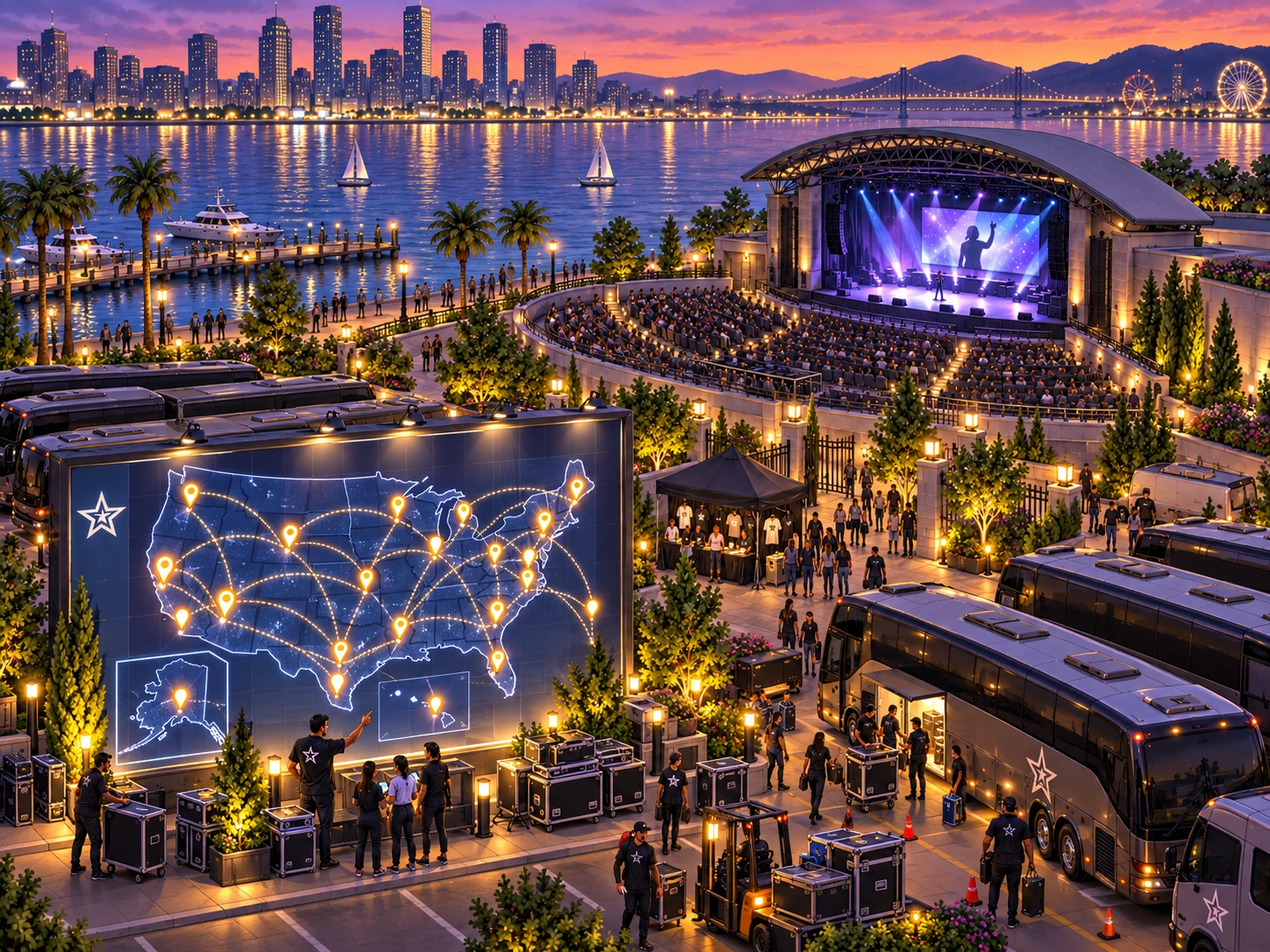
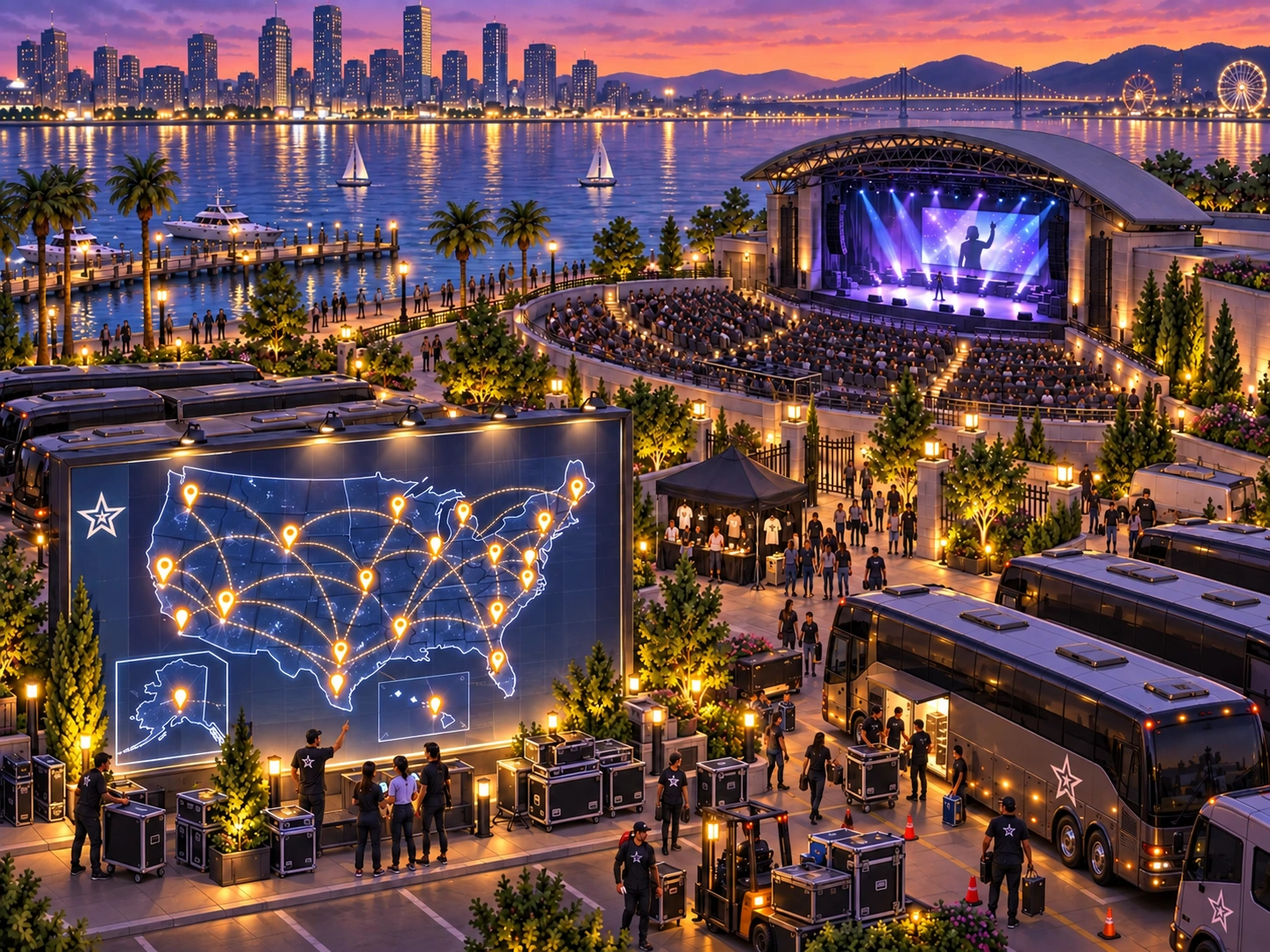
Updated Megastar Mania

diff --git a/audit_tools/econ_rpg/game/ui.js b/audit_tools/econ_rpg/game/ui.js
@@ -1,4 +1,4 @@
-import { nodeContent, availableChoices } from './engine.js';
+import { nodeContent, availableChoices, matches } from './engine.js';
 import { renderScene } from './scenes.js';
 export function el(tag, text, className) {
   const element = document.createElement(tag);
@@ -27,11 +27,41 @@ export function contentBlocks(blocks, parent) {
     }
   }
 }
+export const indicatorValue = (spec, value) => spec.display ? spec.display.values[value] : `${value} / ${spec.max}`;
+export const marketReading = (s, run) => run?.history.length ? s.marketIndicator?.variants.find(v => matches(v.when, run)) : null;
+export function announceChanges(s, run) {
+  const entry = run.history.at(-1);
+  const changes = Object.keys(s.state).filter(k => entry.before[k] !== entry.after[k]).map(k => {
+    const spec = s.state[k], direction = entry.after[k] > entry.before[k] ? 'increased' : 'decreased';
+    return spec.display ? `${spec.label} ${direction}: ${indicatorValue(spec, entry.after[k])}` : `${spec.label} ${direction} to ${entry.after[k]} of ${spec.max}`;
+  }).join('. ') || 'Indicators held steady.';
+  const market = marketReading(s, run);
+  return market ? `${changes}${changes.endsWith('.') ? ' ' : '. '}${s.marketIndicator.label}: ${market.label} at the posted price. ${market.text}` : changes;
+}
+function renderMarket(s, run) {
+  const config = s.marketIndicator, reading = marketReading(s, run);
+  const group = el('section', undefined, 'ticket-market'); group.dataset.market = reading?.id || 'pending';
+  group.append(el('h3', config.label), el('p', 'At the posted price', 'market-context'));
+  const gauge = el('div', undefined, 'market-gauge');
+  gauge.setAttribute('role', reading ? 'meter' : 'img');
+  gauge.setAttribute('aria-label', reading ? config.label : `${config.label}: choose an opening ticket price first.`);
+  if (reading) {
+    gauge.setAttribute('aria-valuemin', '-1'); gauge.setAttribute('aria-valuemax', '1'); gauge.setAttribute('aria-valuenow', String(reading.position));
+    gauge.setAttribute('aria-valuetext', `${reading.label} at the posted price. ${reading.text}`);
+  }
+  const track = el('div', undefined, 'market-track'); track.setAttribute('aria-hidden', 'true');
+  for (const id of ['shortage','balanced','surplus']) track.append(el('span', '', `market-zone ${id}`));
+  const pointer = el('span', '▼', 'market-pointer'); pointer.hidden = !reading; track.append(pointer);
+  const labels = el('div', undefined, 'market-labels'); labels.setAttribute('aria-hidden', 'true');
+  for (const label of ['Shortage','Balanced','Surplus']) labels.append(el('span', label));
+  gauge.append(track, labels); group.append(gauge, el('p', reading?.text || 'Choose an opening ticket price to see the market result.', 'market-result'));
+  return group;
+}
 export function changes(s, before, after) {
   const ul = el('ul', undefined, 'changes');
   for (const [id, spec] of Object.entries(s.state)) {
     const delta = after[id] - before[id];
-    if (delta) ul.append(el('li', `${spec.label}: ${delta > 0 ? '↑ increased' : '↓ decreased'} ${Math.abs(delta)} ${Math.abs(delta) === 1 ? 'step' : 'steps'}`));
+    if (delta) ul.append(el('li', spec.display ? `${spec.label}: ${delta > 0 ? '↑ ' + spec.display.up : '↓ ' + spec.display.down}` : `${spec.label}: ${delta > 0 ? '↑ increased' : '↓ decreased'} ${Math.abs(delta)} ${Math.abs(delta) === 1 ? 'step' : 'steps'}`));
   }
   if (!ul.children.length) ul.append(el('li', 'Indicators held steady in this step.'));
   return ul;
@@ -43,6 +73,7 @@ function heading(view, title, eyebrow) {
 export function renderState(s, run) {
   const panel = document.querySelector('#state-panel'); panel.replaceChildren();
   const title = el('h2', s.stateTitle || 'Conditions'); title.id = 'state-title'; panel.append(title);
+  if (s.marketIndicator) panel.append(renderMarket(s, run));
   const initial = Object.fromEntries(Object.entries(s.state).map(([id, spec]) => [id, spec.initial]));
   const state = run?.state || initial;
   const recent = run?.history.at(-1);
@@ -50,6 +81,13 @@ export function renderState(s, run) {
   for (const [id, spec] of Object.entries(s.state)) {
     const group = el('div', undefined, 'state-item'); group.append(el('dt', spec.label));
     const dd = el('dd');
+    if (spec.display) {
+      group.classList.add('qualitative');
+      dd.append(el('span', indicatorValue(spec, state[id]), 'state-value'));
+      const delta = recent ? recent.after[id] - recent.before[id] : 0;
+      if (delta) dd.append(el('span', delta > 0 ? `↑ ${spec.display.up}` : `↓ ${spec.display.down}`, 'state-change'));
+      group.append(dd); list.append(group); continue;
+    }
     const dots = el('span', undefined, 'steps'); dots.setAttribute('aria-hidden', 'true');
     for (let i = spec.min; i < spec.max; i++) dots.append(el('i', '', i < state[id] ? 'filled' : ''));
     const value = el('span', `${state[id]} / ${spec.max}`, 'state-value');
@@ -65,9 +103,13 @@ export function renderState(s, run) {
     group.append(dd); list.append(group);
   }
   panel.append(list);
+  if (s.marketIndicator) panel.append(el('p', 'Fan interest is not a ticket count.', 'indicator-note'));
   const details = el('details'), definitions = el('dl', undefined, 'indicator-definitions');
   for (const spec of Object.values(s.state)) {
     const group = el('div'); group.append(el('dt', spec.label), el('dd', spec.short)); definitions.append(group);
+  }
+  if (s.marketIndicator) {
+    const group = el('div'); group.append(el('dt', s.marketIndicator.label), el('dd', s.marketIndicator.short)); definitions.append(group);
   }
   details.append(el('summary', 'What do these indicators mean?'), definitions, el('p', 'Indicators show simplified scenario conditions, not real-world forecasts.')); panel.append(details);
 }

diff --git a/audit_tools/econ_rpg/game/scenarios/megastar-mania.js b/audit_tools/econ_rpg/game/scenarios/megastar-mania.js
@@ -28,9 +28,14 @@ export default {
   consequenceTitle: 'Tour consequences', endingEyebrow: 'Your outcome · After the tour', duration: 'About 10–15 minutes', decisions: 6, sceneSet,
   introduction: [p('Jules Arlen is a fictional indie-pop singer with a modest following and a waterfront show to book. You manage the tour: set ticket prices, decide how far to expand, and respond when illness or public attention changes the market.'), p('Each stage follows the next booking window. Watch who can get tickets, how many seats remain available and what supports the artist’s future. The venue is a representative view of the tour; no single indicator is a score to maximize.')],
   metadata: { concept: 'Supply and demand in concert ticket markets', learningObjective: 'Distinguish price-driven changes in quantity demanded from shifts in demand and available ticket supply.', mechanism: 'Posted prices, capacity, shortages, surplus and secondary markets', misconception: 'A sellout proves the price was ideal, or more dates mean higher demand.' },
+  marketIndicator: { label: 'Ticket Market', short: 'Compares ticket requests at the posted price with available seats. The pointer shows the result, not a number of tickets.', variants: [
+    { id: 'shortage', label: 'Shortage', position: -1, text: 'More ticket requests than available seats.', when: marketIs('shortage') },
+    { id: 'balanced', label: 'Balanced', position: 0, text: 'Ticket requests match available seats.', when: marketIs('balanced') },
+    { id: 'surplus', label: 'Surplus', position: 1, text: 'More available seats than ticket requests.', when: marketIs('surplus') }
+  ] },
   state: {
-    demand: { label: 'Ticket Demand', short: 'How strongly consumers want tickets, distinct from purchases at a particular price', min: 0, max: 8, initial: 4 },
-    supply: { label: 'Ticket Supply', short: 'Seats and performances available in the current tour window', min: 0, max: 8, initial: 4 },
+    demand: { label: 'Fan Interest', short: 'Underlying enthusiasm for Jules, not the number of tickets wanted at a particular price.', min: 0, max: 8, initial: 4, display: { values: ['Very low','Very low','Low','Low','Moderate','Moderate','Strong','Strong','Very strong'], up: 'Stronger interest', down: 'Weaker interest' } },
+    supply: { label: 'Ticket Supply', short: 'Available seats and performances. Compare ticket requests with capacity using the Ticket Market gauge, not the Fan Interest label.', min: 0, max: 8, initial: 4, display: { values: ['None','Very limited','Very limited','Limited','Moderate','Broad','Broad','Extensive','Extensive'], up: 'More capacity', down: 'Less capacity' } },
     revenue: { label: 'Tour Revenue', short: 'Financial strength from ticket receipts after refunds, not a profit estimate', min: 0, max: 8, initial: 4 },
     goodwill: { label: 'Fan Goodwill', short: 'How fans view the artist and touring experience', min: 0, max: 8, initial: 5 },
     momentum: { label: 'Career Momentum', short: 'Broader visibility, audience reach and prospects for future work', min: 0, max: 8, initial: 3 }

diff --git a/audit_tools/econ_rpg/game/rpg.css b/audit_tools/econ_rpg/game/rpg.css
@@ -4,6 +4,20 @@
 @media(prefers-reduced-motion:reduce){*{scroll-behavior:auto!important;animation:none!important;transition:none!important}}
 
 /* Approved local WebPs: show the complete artwork at its intrinsic aspect ratio. */
+/* Opt-in qualitative indicators and derived market display; other scenarios retain their panel. */
+.ticket-market{margin:16px 0 12px;padding:14px 12px;background:#071f3c;border:1px solid var(--line);border-radius:10px}
+.ticket-market h3{font-size:.9rem;margin:0}.market-context{font-size:.73rem;color:var(--muted);margin:1px 0 18px}
+.market-gauge{position:relative}.market-track{position:relative;display:grid;grid-template-columns:1fr 1fr 1fr;gap:3px;height:9px;margin:0 4px}
+.market-zone{background:#54657a;border-radius:3px}.market-zone.balanced{background:#4d747a}
+.ticket-market[data-market="shortage"] .shortage,.ticket-market[data-market="surplus"] .surplus{background:var(--gold)}
+.ticket-market[data-market="balanced"] .balanced{background:var(--teal)}
+.market-pointer{position:absolute;top:-18px;left:50%;transform:translateX(-50%);font-size:15px;line-height:18px;color:var(--ink)}
+.ticket-market[data-market="shortage"] .market-pointer{left:16.667%}.ticket-market[data-market="surplus"] .market-pointer{left:83.333%}
+.market-labels{display:grid;grid-template-columns:1fr 1fr 1fr;gap:3px;margin-top:6px;font-size:.65rem;text-align:center;color:var(--muted)}
+.market-result{font-size:.76rem;line-height:1.5;margin:10px 0 0;color:var(--ink)}
+.state-item.qualitative dd{display:flex;flex-wrap:wrap;justify-content:space-between;gap:4px 10px}
+.state-item.qualitative .state-value{font-size:.9rem;font-weight:600;color:var(--ink);text-align:left}
+.state-item.qualitative .state-change{font-size:.7rem;white-space:normal}.indicator-note{font-size:.75rem;color:var(--muted);margin:12px 0 0}
 .states details[open] summary{margin-bottom:10px}
 .neighborhood-scene{margin:0 -10px 24px;overflow:hidden;border:1px solid #546e79;border-radius:10px;background:#eef4f8}
 .neighborhood-scene img{display:block;width:100%;height:auto;object-fit:contain}

diff --git a/audit_tools/econ_rpg/game/rpg.js b/audit_tools/econ_rpg/game/rpg.js
@@ -1,7 +1,7 @@
 import { scenarioFor } from './scenarios/registry.js';
 import { createRun, decide, advance, transitionEvent, validateScenario } from './engine.js';
 import { loadRun, saveRun, clearRun } from './storage.js';
-import { render } from './ui.js';
+import { render, announceChanges } from './ui.js';
 const scenario = scenarioFor(window.location.search);
 validateScenario(scenario);
 document.title = `${scenario.title} · Mastery Quests`;
@@ -30,8 +30,7 @@ const actions = {
   resume() { run = saved; paint(); event(run.phase === 'decision' ? 'decision_presented' : run.phase === 'consequence' ? 'consequence_viewed' : 'scenario_complete'); },
   choose(id) {
     run = decide(scenario, run, id); persist(); event('decision_selected', id); paint(); event('consequence_viewed', id);
-    const entry = run.history.at(-1);
-    document.querySelector('#announcement').textContent = Object.keys(scenario.state).filter(k => entry.before[k] !== entry.after[k]).map(k => `${scenario.state[k].label} ${entry.after[k] > entry.before[k] ? 'increased' : 'decreased'} to ${entry.after[k]} of ${scenario.state[k].max}`).join('. ') || 'Indicators held steady.';
+    document.querySelector('#announcement').textContent = announceChanges(scenario, run);
   },
   advance() { run = advance(scenario, run); persist(); paint(); event(run.phase === 'ending' ? 'scenario_complete' : 'decision_presented'); },
   replay() { reset(); }

diff --git a/audit_tools/econ_rpg/MEGASTAR-MANIA-REPORT.md b/audit_tools/econ_rpg/MEGASTAR-MANIA-REPORT.md
@@ -2,11 +2,27 @@
 
 Completed September 20, 2026; targeted gameplay refinements reviewed against commit `cc9dd5791c79655157cc0ea3f47719601244578b` on September 21, 2026. **Ready for instructor QA.** Development only; nothing deployed, published or pushed.
 
+## September 21 indicator presentation update
+
[1 lines of base64/hex data omitted]
+
+**Labels and display:** “Ticket Demand” is now **Fan Interest**. Fan Interest and Ticket Supply use qualitative labels instead of numeric totals or matching eight-step bars. For example, interest can be Moderate or Strong and capacity can be Limited or Broad. Tour Revenue, Fan Goodwill and Career Momentum retain their existing numerical display. The underlying state IDs, 0–8 ranges and market mechanics are unchanged.
+
+**Ticket Market:** a separate three-position gauge sits at the top of the conditions panel. Shortage is on the left, balance in the center and surplus on the right. A pointer, highlighted segment and short description identify the derived result at the posted price. The gauge communicates a category, not the size of a ticket gap. Before the first price decision it has no pointer and asks the player to choose a price. Selection uses the existing `marketIs` conditions, verified against `ticketMarket`; it never compares raw Fan Interest with Ticket Supply.
+
+**Help and consequences:** the collapsed help now separately explains underlying enthusiasm, available capacity and ticket requests at the posted price. A short visible note says that fan interest is not a ticket count. For those two states, panel deltas and consequence/debrief change badges say stronger/weaker interest or more/less capacity instead of numeric steps. Screen-reader announcements use the qualitative labels and include the derived market condition. The gauge has an accessible meter role and descriptive value text, and does not rely on color alone. No decision or economic-consequence prose was rewritten.
+
+**Shared UI scope:** `game/ui.js` adds opt-in qualitative displays and market-gauge rendering; `game/rpg.css` styles only the new classes; `game/rpg.js` uses the shared announcement formatter. Megastar alone supplies the optional display metadata. The other three RPGs retain their labels, numerical panels, announcements and complete path histories. Engine, storage, scene rules and price-sensitive market calculations are unchanged. Historical test assertions that required byte-identical shared UI files now protect engine/storage/scenario data instead, backed by all three earlier browser suites.
+
[1 lines of base64/hex data omitted]
+
+**Review:** compare premium → aggressive → dates, moderate → keep → dates, and introductory → keep → dates. All three reach internal interest 7 and capacity 7, but the gauge shows surplus, balance and shortage respectively because their posted prices differ. Both visible state labels remain the same across this comparison, demonstrating why they cannot substitute for the market result. See the updated [QA guide](MEGASTAR-MANIA-QA-PATHS.md) for the full routes and indicator checks.
+
 Play at <http://127.0.0.1:4179/?scenario=megastar-mania>. The title is exactly **Megastar Mania**, without a subtitle. Start with routes 1–8 in [MEGASTAR-MANIA-QA-PATHS.md](MEGASTAR-MANIA-QA-PATHS.md); together they show all seven scenes and all seven endings. Seventeen routes cover every reachable conditional consequence and choice, including added dates under shortage, balance and surplus.
 
-## September 21 refinement scope
+## Earlier September 21 gameplay refinement scope
 
-Only two gameplay rules changed from the reviewed commit: added-date consequence art and classification of strong-demand limited-tour endings. The map's alt description now identifies the action being illustrated rather than asserting strong ticket sales. All decision prose, choices, numerical effects, routing, market derivation, existing ending prose, debrief, artwork and shared runtime remain unchanged. Supporting tests and documentation reflect those two changes.
+In the earlier refinement against `cc9dd579`, only two gameplay rules changed: added-date consequence art and classification of strong-demand limited-tour endings. The map's alt description identified the action being illustrated rather than asserting strong ticket sales. At that stage, all decision prose, choices, numerical effects, routing, market derivation, existing ending prose, debrief, artwork and shared runtime remained unchanged. The later presentation-only update is recorded above.
 
 `expansion.dates` now selects `expanded-tour` on its immediate consequence in all three derived market states. Advancing returns to the current market image. `expansion.venues` never selects the tour-stop map.
 
@@ -16,7 +32,7 @@ Version 1 and save structure remain unchanged. Decision/consequence histories ar
 
 ## Architecture and changed files
 
-The fourth scenario uses the existing shared engine, controller, UI, CSS, scene renderer, storage and debrief. Those implementations are unchanged. The private registry adds `megastar-mania`, version 1, through the existing `?scenario=` query parameter. Missing, unknown and inherited-object query names still resolve to Room to Stay. No public scenario picker was added.
+The fourth scenario uses the existing shared engine, controller, UI, CSS, scene renderer, storage and debrief. Engine, storage and scene rendering are unchanged; the shared presentation layer now supports Megastar's opt-in indicator display described above. The private registry adds `megastar-mania`, version 1, through the existing `?scenario=` query parameter. Missing, unknown and inherited-object query names still resolve to Room to Stay. No public scenario picker was added.
 
 Added under `audit_tools/econ_rpg/`:
 
@@ -24,7 +40,7 @@ Added under `audit_tools/econ_rpg/`:
 - `game/scenarios/megastar-mania-scenes.js`: seven scenario-owned image conditions, captions and alt descriptions.
 - `game/scenarios/megastar-mania-market.js`: scenario authoring helpers that compile price/history/state comparisons into ordinary shared-engine conditions. No separate transition engine or additional saved indicator.
 - `megastar-mania-qa.mjs`: exhaustive enumeration, representative routes and manual-guide generation.
-- `megastar-mania.test.mjs`: nine suites for structure, economic invariants, scenes, endings, persistence, assets, committed-history comparison and earlier scenario behavior.
+- `megastar-mania.test.mjs`: ten suites for structure, economic invariants, scenes, endings, persistence, assets, committed-history comparison, deterministic indicators and earlier scenario behavior.
 - `megastar-mania.browser.test.mjs`: browser coverage using the existing preview and Playwright pattern.
 - `art/megastar-mania-assets.json`: fourteen pre-integration hashes, sizes, dimensions and original locations.
 - `art/source/megastar-mania/`: seven approved PNG masters moved from the runtime source folder.
@@ -38,6 +54,8 @@ Modified existing files:
 - `publication.test.mjs`: scans for Megastar content and the fourteen new art hashes as well as the previous content/assets.
 - `README.md`: fourth preview URL, architecture, model assumptions and QA commands.
 - `art/README.md`: Art Bible guidance, approved-name mapping and conditional scene priorities.
+
+The latest presentation update additionally modifies the shared `game/ui.js`, `game/rpg.css` and announcement delegation in `game/rpg.js`; the optional state/market display metadata in `game/scenarios/megastar-mania.js`; the updated runtime asset's manifest record; the QA generator/browser checks; the shared-file assertions in `main-attraction.test.mjs` and `ppf.test.mjs`; and the related private documentation. The runtime image modification itself was supplied by the user before this task.
 
 No public or production source files changed. The publication test regenerated ignored local `dist/` solely to verify the existing exclusion boundary. Browser screenshots and logs are ignored evidence under `tmp/econ-rpg/`; they are not public output.
 
@@ -54,7 +72,7 @@ The player manages fictional indie-pop singer **Jules Arlen**. Six major decisio
 
 Seven unique nodes and 21 node/choice pairs generate **729 legal paths**. Every path has exactly six decisions. All nodes and endings are reachable, with no cycles or dead ends.
 
-The five compact 0–8 indicators are **Ticket Demand, Ticket Supply, Tour Revenue, Fan Goodwill and Career Momentum**. Definitions remain in the shared collapsed help panel. Values are ordinal illustrations, not empirical measurements or a common welfare score.
+The five underlying 0–8 states are displayed as **Fan Interest, Ticket Supply, Tour Revenue, Fan Goodwill and Career Momentum**. Fan Interest and Ticket Supply now show qualitative labels; the other three retain their numerical steps. **Ticket Market** is a derived display, not a sixth saved state. Definitions remain in the shared collapsed help panel. Values are ordinal illustrations, not empirical measurements or a common welfare score.
 
 Demand means preference strength. Price choices remain in history, and the scenario's authored comparison uses both price and preference strength to determine tickets wanted relative to capacity. The demand indicator itself does not change merely because a ticket price changes. More dates and larger rooms increase supply without increasing demand. Illness removes current supply without reducing demand. Publicity and crossover change demand without changing available seats.
 
@@ -84,7 +102,7 @@ Masters: `audit_tools/econ_rpg/art/source/megastar-mania/megastar-{scene}.png`.
 
 Runtime: `audit_tools/econ_rpg/game/art/scenes/megastar-mania/{scene}.webp`.
 
-All fourteen files remain **byte-for-byte identical to the supplied assets**, at 1448 × 1086. The supplied PNGs were already canonically named in `game/art/sources/`; they moved outside the preview root. Runtime WebPs already existed in the required namespace. No new art, conversion, recompression, crop, resize, overlay or pixel edit was performed. The Art Bible records the mapping from the seven descriptive original names in the request to these canonical names.
+All fourteen files remain **byte-for-byte identical to their current supplied versions**, at 1448 × 1086, including the user's updated expanded-tour runtime WebP described above. Its PNG master remains the earlier supplied image. At initial integration, the canonically named PNGs moved from `game/art/sources/` outside the preview root; runtime WebPs already existed in the required namespace. No new art, conversion, recompression, crop, resize, overlay or pixel edit was performed by Codex. The Art Bible records the mapping from the seven descriptive original names in the request to these canonical names.
 
 | Scene | Selection and meaning |
 |---|---|
@@ -102,7 +120,7 @@ The cancellation image represents removed performances. The next decision explic
 
 ## Verification results
 
-**Automated tests: 38 passed, zero failed on September 21.** This includes nine Megastar tests and all existing engine, scene, park, PPF and publication tests.
+**Automated tests: 39 passed, zero failed on September 21.** This includes ten Megastar tests and all existing engine, scene, park, PPF and publication tests. All 729 legal six-decision paths were rerun successfully. The new gauge is checked against the independent price-sensitive market oracle across all 9,477 phases, with repeatable qualitative labels, accessible announcements and no state mutation. Three runs with identical interest/capacity state but different prices explicitly produce three different market readings.
 
 The exhaustive checks validate unique IDs, targets, all reachable nodes/choices/outcomes, bounds, six decisions on all 729 routes, every ending and every scene. All 9,477 current decision/consequence/ending phases replay exactly. Repeated selection from cloned runs is deterministic and leaves state unchanged. Every added-date consequence shows the map, covering shortage, balance and surplus; no venue-expansion or later screen does. Advancing from expansion selects the independently verified market image. Four save keys remain isolated. Restart/replay identity, corrupted state and version mismatches are checked. Economic assertions cover price versus demand, supply-only changes, publicity-only changes, revenue under binding capacity, resale-only shortages, recent cancellation scenes and market-consistent endings. Comparison with the requested commit proves all 729 histories/state transitions unchanged and exactly twelve final ending IDs reclassified.
 
@@ -114,13 +132,13 @@ Earlier full serialized path histories retain their frozen SHA-256 checksums:
[2 lines of base64/hex data omitted]
 
-**Browser checks: headless Chrome.** The revised Megastar coverage set contains 17 routes at each of 1280px, 390px and 320px: **51 full playthroughs**, all seven scenes and all seven endings at each width, including explicit date-map consequence and subsequent market-image assertions. The earlier September 20 browser regression run covered 41 housing runs, 27 park runs and 33 PPF runs; those scenarios and the shared runtime remain unchanged, with their automated regressions and complete-path hashes verified again on September 21.
+**Browser checks: headless Chrome.** The revised Megastar coverage set contains 17 routes at each of 1280px, 390px and 320px: **51 full playthroughs**, all seven scenes and all seven endings at each width, including date-map sequencing, qualitative state labels, all three gauge positions and the unpriced initial display. Gauge pointer positions, accessible value text and exact served updated-image bytes are checked. All three earlier browser suites are rerun for the shared presentation change: 41 housing runs, 27 park runs and 33 PPF runs, for **152 complete playthroughs** across the four scenarios. Their original numerical indicator assertions remain intact.
 
-Checks include exact UI choices and path history, five indicators and signed changes, collapsed help, six path entries, three counterfactuals, image decode and full 4:3 framing, descriptive alt text, captions, no horizontal overflow, and buttons at least 44px high. Keyboard Enter/Space/Tab activation, visible focus, focus transfer, live announcements and Escape cancellation passed. Reload at consequences/decisions/endings, ending review, replay, blocked storage, version mismatch, and the three older scenarios' untouched saves passed. Desktop and narrow first-decision screenshots and the mobile debrief were visually reviewed. Real-device and screen-reader review remain appropriate instructor QA; this is not a claim of a full assistive-technology audit.
+Checks include exact UI choices and path history, five underlying indicators plus the derived gauge, concise changes, six collapsed help definitions, six path entries, three counterfactuals, image decode and full 4:3 framing, descriptive alt text, captions, no horizontal overflow, and buttons at least 44px high. Keyboard Enter/Space/Tab activation, visible focus, focus transfer, live announcements and Escape cancellation are checked. Reload at consequences/decisions/endings, ending review, replay, blocked storage, version mismatch, and the three older scenarios' untouched saves are checked. Desktop and narrow indicator screenshots supplement the first-decision and debrief captures. Real-device and screen-reader review remain appropriate instructor QA; this is not a claim of a full assistive-technology audit.
 
 No external requests, CSP violations, console errors or page errors were recorded by any browser suite. All seven Megastar WebPs return the correct local image MIME type. Source-master URLs return 404. Art-only captures accompany captioned scenes at all three widths.
 
-Current refinement evidence: `tmp/econ-rpg/megastar-mania/browser-results.json`, screenshots in that folder, `tmp/econ-rpg/megastar-refinements-units.log` and `tmp/econ-rpg/megastar-refinements-browser.log`. Original earlier-scenario browser evidence remains in the three `megastar-*-regression.log` files.
+Current presentation evidence: `tmp/econ-rpg/megastar-mania/browser-results.json`, `indicators-{width}-{condition}.png` and other screenshots in that folder, `tmp/econ-rpg/megastar-indicators-units.log`, `megastar-indicators-browser.log`, and the three `megastar-indicators-{housing,park,ppf}.log` files. Earlier gameplay refinement evidence remains in the `megastar-refinements-*.log` files.
 
 **Publication guard: passed.** The existing explicit `audit_tools/` deny rule and `.assetsignore` remain unchanged. The real local build contains no RPG content, no private directory and none of the 48 approved source/runtime image hashes under any filename. Protected public navigation, Games, Composer, telemetry, Cloudflare and publication tooling show no changes. No deployment or push command ran.
 
@@ -134,9 +152,9 @@ For the scene correction, compare row 1 (added dates create surplus), row 4 (bal
 
 | # | Question | Answer |
 |---|---|---|
-| 1 | Does Megastar Mania run on the shared RPG engine? | **Yes.** No engine duplication or runtime modification. |
+| 1 | Does Megastar Mania run on the shared RPG engine? | **Yes.** No engine duplication or logic change; shared presentation supports its optional gauge. |
 | 2 | Did Room to Stay remain unchanged? | **Yes.** Content, runtime behavior, frozen paths and regression suite preserved. |
-| 3 | Did The Main Attraction remain unchanged? | **Yes.** Scenario preserved; only its registry-count test now expects four. |
+| 3 | Did The Main Attraction remain unchanged? | **Yes.** Scenario, numerical panel and complete paths preserved; test assertions allow the optional shared UI extension. |
 | 4 | Did The Economy’s Edge remain unchanged? | **Yes.** Content, frozen paths and regression suite preserved. |
 | 5 | Does it teach supply and demand without gameplay graphs or formulas? | **Yes.** Decisions and consequences precede the conceptual debrief. |
 | 6 | Can players experience surplus and shortage? | **Yes.** Both have reachable consequences and appropriate scenes. |

diff --git a/audit_tools/econ_rpg/MEGASTAR-MANIA-QA-PATHS.md b/audit_tools/econ_rpg/MEGASTAR-MANIA-QA-PATHS.md
@@ -33,7 +33,7 @@ Private preview: <http://127.0.0.1:4179/?scenario=megastar-mania>. Version 1. St
 | 16 | premium → aggressive → dates → cancel → quiet → experiment | too-big | baseline, surplus, expanded-tour, supply-shock, demand-drop | 5 / 5 / 2 / 0 / 8 |
 | 17 | moderate → keep → limited → cancel → quiet → original | reputation | baseline, shortage, supply-shock | 3 / 2 / 3 / 2 / 6 |
 
-D = preference strength; S = available tickets; R = financial strength from receipts after refunds; G = goodwill; M = career momentum. All are ordinal teaching indicators, not empirical estimates. Do not compare D directly with S to diagnose shortage: the posted price also determines purchases.
+D = underlying Fan Interest; S = available ticket capacity; R = financial strength from receipts after refunds; G = goodwill; M = career momentum. The numbers in this instructor table are internal ordinal state, not empirical estimates. The student panel shows qualitative Fan Interest and Ticket Supply labels instead of their numbers, plus a separate Ticket Market gauge derived at the posted price. Do not subtract D and S to diagnose shortage.
 
 ## Choice key
 
@@ -81,6 +81,9 @@ D = preference strength; S = available tickets; R = financial strength from rece
 
 ## Focused review
 
+- Before the first price decision, Ticket Market asks for a price and has no pointer. After pricing, its pointer shows shortage on the left, balance in the center, or surplus on the right. It is a qualitative result, not a quantity gap. Fan Interest and Ticket Supply have descriptive labels without matching numeric scales; the other three indicators retain their existing steps.
+- Compare premium → aggressive → dates, moderate → keep → dates, and introductory → keep → dates. All reach internal interest 7 and capacity 7, but the Ticket Market gauge must show surplus, balance and shortage respectively. Posted price explains the difference.
+- The expanded-tour image is the user-updated runtime WebP, used unchanged at the same path. Check its map and extra touring buses on every added-date consequence; no other scene rule changed.
 - Compare all three opening prices: demand and supply stay fixed, while purchases change. Premium leaves empty seats; moderate clears the illustrative market; introductory pricing creates unfilled requests.
 - The breakout raises demand for every pricing response. Price changes affect quantity demanded, not the demand indicator. An aggressive increase after a premium opening can still leave surplus tickets.
 - Added dates and bigger venues change supply only. If there are no extra willing buyers at the price, new seats do not raise ticket receipts. Adding dates always shows the expanded-tour map on the immediate consequence, including shortage, balance and surplus. Continue to see market-state art again. Larger venues never trigger the map.
@@ -91,7 +94,7 @@ D = preference strength; S = available tickets; R = financial strength from rece
 - Resale appears only with actual unfilled requests at the official price. It is not a judgment that the price was wrong. “Sold out” alone is not proof of a shortage; shut-out buyers supply that evidence.
 - The four debrief sections and six path entries should match the decisions. Different priorities can favor receipts, goodwill, capacity or career prospects; there is no aggregate score.
 - Reload at a decision, consequence and ending. Restart, cancel restart with Escape, and replay. Switch between all four scenarios and confirm their saves remain separate.
-- Try keyboard-only play, expand the indicator help, and read the ending at 320px and 390px. Automated checks cover focus, live announcements, button targets and overflow; also review on a real phone and with a screen reader.
+- Try keyboard-only play, expand the indicator help, and read the ending at 320px and 390px. Help now explains Fan Interest, available capacity and the derived Ticket Market separately. Consequence changes and live announcements should say stronger/weaker interest and more/less capacity, with no comparable raw interest/supply totals. Automated checks cover focus, live announcements, button targets and overflow; also review on a real phone and with a screen reader.
 
 ## Ending counts
 

diff --git a/audit_tools/econ_rpg/art/README.md b/audit_tools/econ_rpg/art/README.md
@@ -78,7 +78,7 @@ Current priority is completed growth; disruption/continued slack; recent recover
 
 Use the same waterfront concert venue, skyline and elevated, oblique management-game viewpoint across all seven scenes. Maps are the main signal for added or removed tour dates. Crowds communicate attendance and unmet ticket requests; they are not decoration or a reward. Preserve the approved signage as supplied, without adding banners, overlays or repeated decorative lettering. The meaningful labels and explanations remain in accessible HTML.
 
-All fourteen supplied files remain byte-for-byte unchanged at 1448 × 1086. The PNGs were already named `megastar-*.png` in `game/art/sources/`; they moved to the canonical private `art/source/megastar-mania/` folder. The supplied WebPs stayed in `game/art/scenes/megastar-mania/`. No generation, conversion, recompression, cropping or pixel editing was needed. Original locations, byte counts, dimensions and pre-move SHA-256 hashes are recorded in `megastar-mania-assets.json` and enforced by tests.
+All fourteen files are preserved at 1448 × 1086. The PNGs were already named `megastar-*.png` in `game/art/sources/`; they moved to the canonical private `art/source/megastar-mania/` folder. The supplied WebPs stayed in `game/art/scenes/megastar-mania/`. On September 21 the user supplied an updated `expanded-tour.webp` at that same runtime path. It is used without modification; the PNG master remains the earlier supplied version. The manifest records the updated WebP hash and retains its prior hash for provenance. No generation, conversion, recompression, cropping or pixel editing was performed by Codex. Original locations, current supplied-file byte counts, dimensions and SHA-256 hashes are recorded in `megastar-mania-assets.json` and enforced by tests.
 
 | Approved original name | Canonical PNG in `source/megastar-mania/` | Runtime WebP in `../game/art/scenes/megastar-mania/` |
 |---|---|---|

diff --git a/audit_tools/econ_rpg/README.md b/audit_tools/econ_rpg/README.md
@@ -235,7 +235,7 @@ Reviewed every choice, conditional consequence and ending for consistent directi
 
 ## Megastar Mania model and QA
 
-`megastar-mania`, version 1, has six decisions over seven reachable nodes: opening price; breakout pricing (with an alternate opening after a surplus); supply expansion; illness; interview response; crossover. Its five 0–8 indicators are Ticket Demand, Ticket Supply, Tour Revenue, Fan Goodwill and Career Momentum. The title has no subtitle.
+`megastar-mania`, version 1, has six decisions over seven reachable nodes: opening price; breakout pricing (with an alternate opening after a surplus); supply expansion; illness; interview response; crossover. Its five underlying 0–8 states are displayed as Fan Interest, Ticket Supply, Tour Revenue, Fan Goodwill and Career Momentum. Fan Interest and Ticket Supply use qualitative labels, without comparable numeric totals; a separate Ticket Market gauge shows the price-sensitive result. It is a derived display, not a sixth saved state. The title has no subtitle.
 
 Demand records preference strength, not attendance. The earlier price choices persist in history. A small scenario authoring helper combines that price history with demand and available capacity to build ordinary engine conditions for surplus, balance and shortage. This introduces neither a sixth saved indicator nor a separate transition engine. It keeps price changes distinct from demand shifts, and capacity changes distinct from audience growth. No model formulas, graphs, definitions quiz or answer grades appear during play.
 
